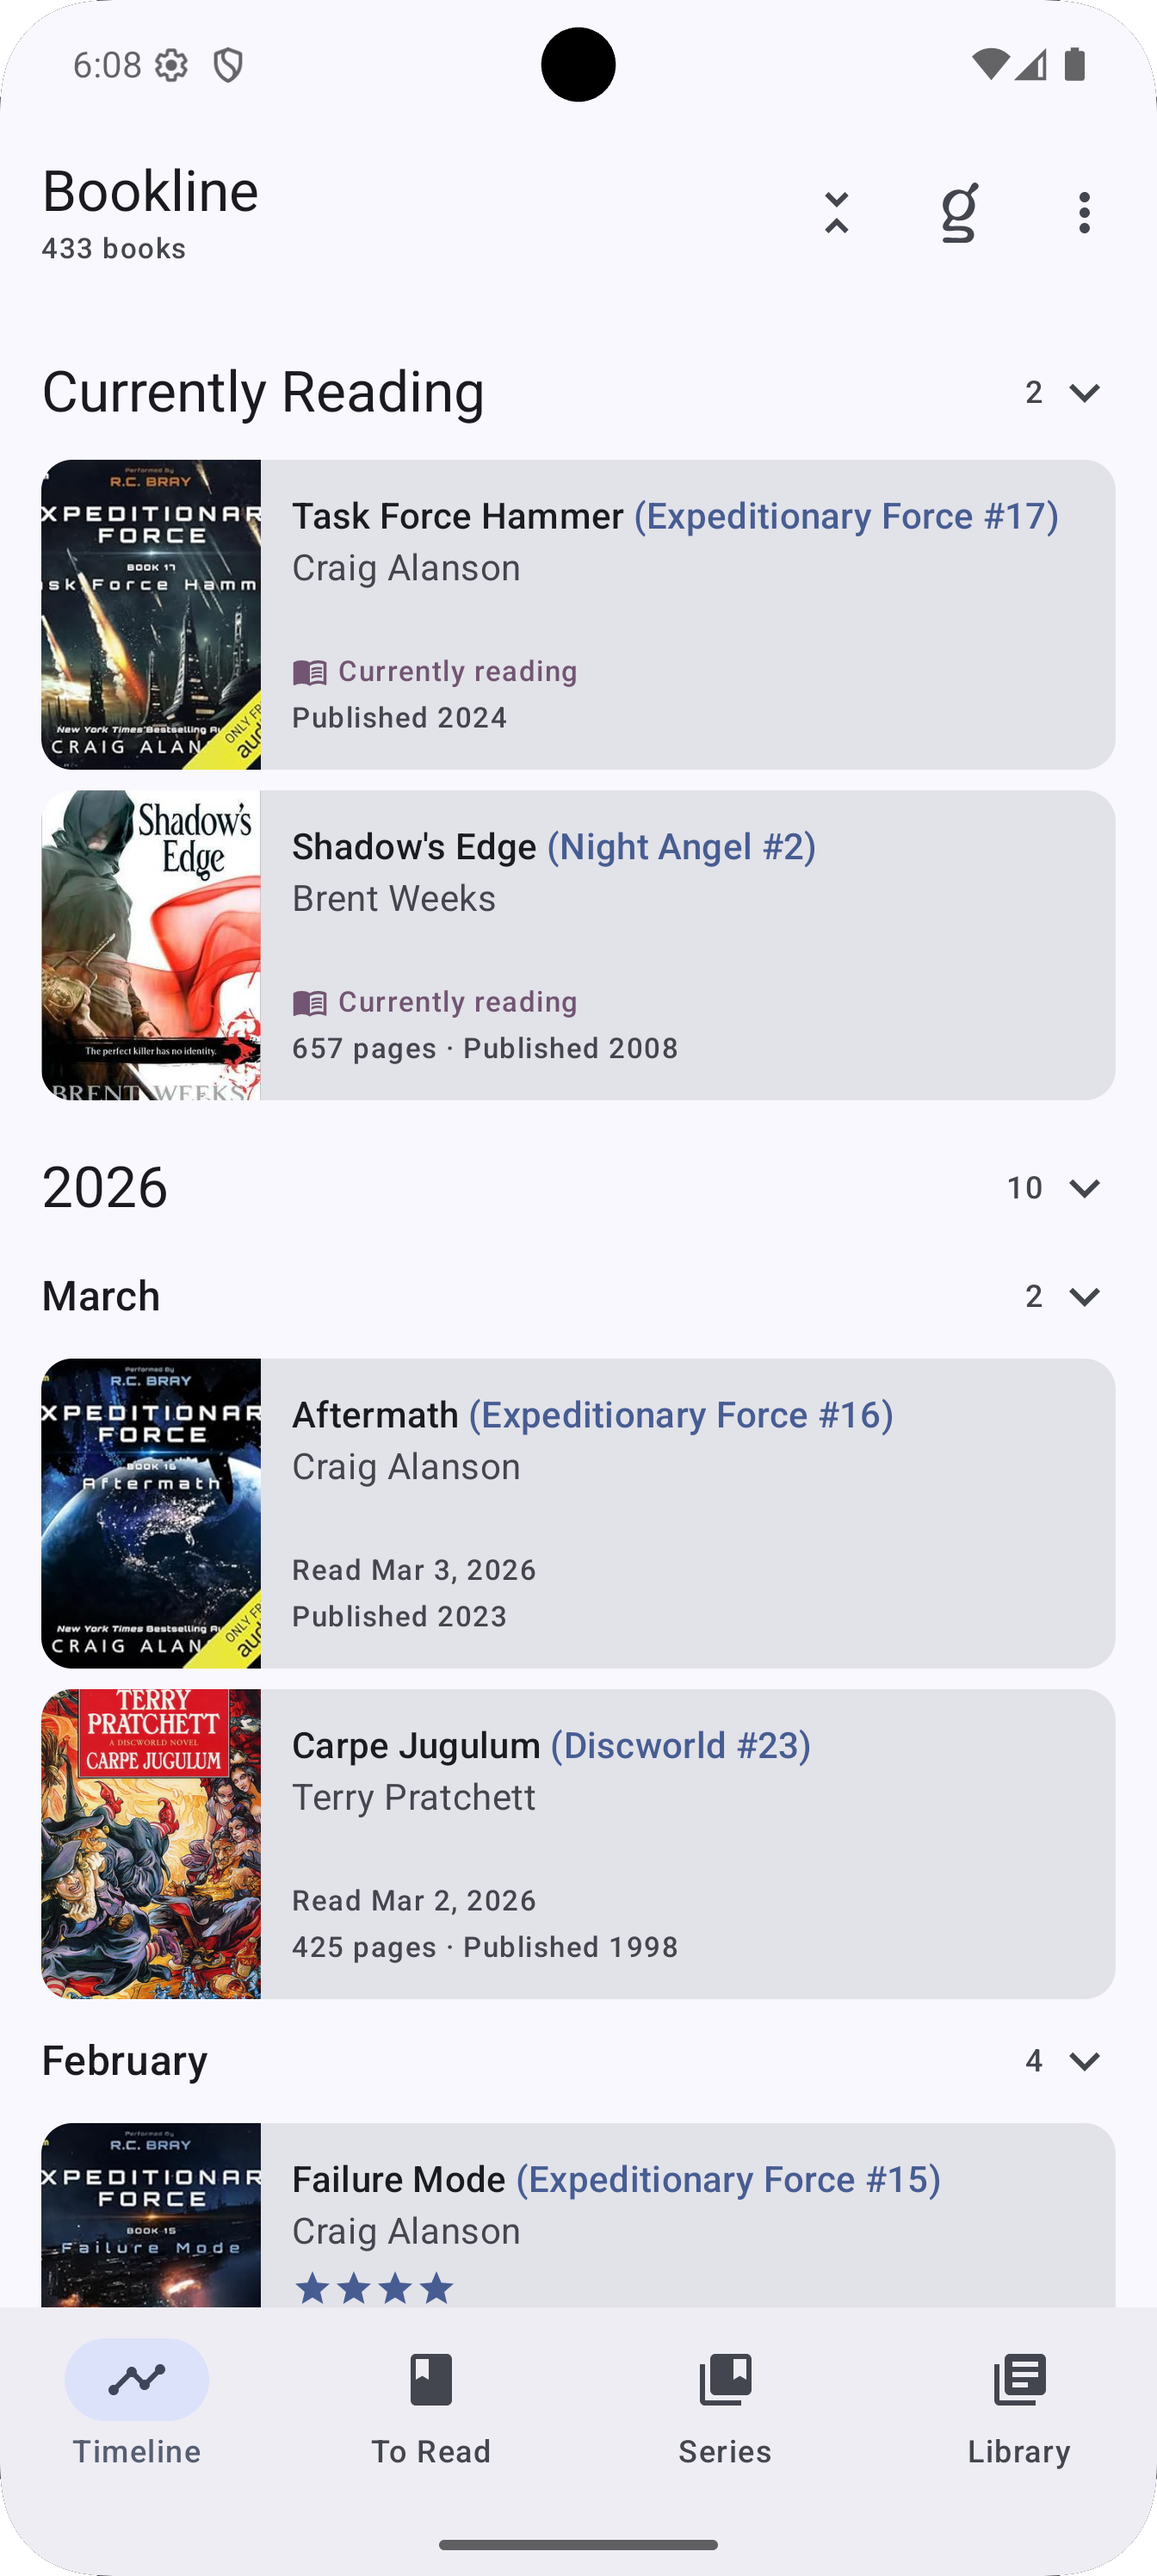
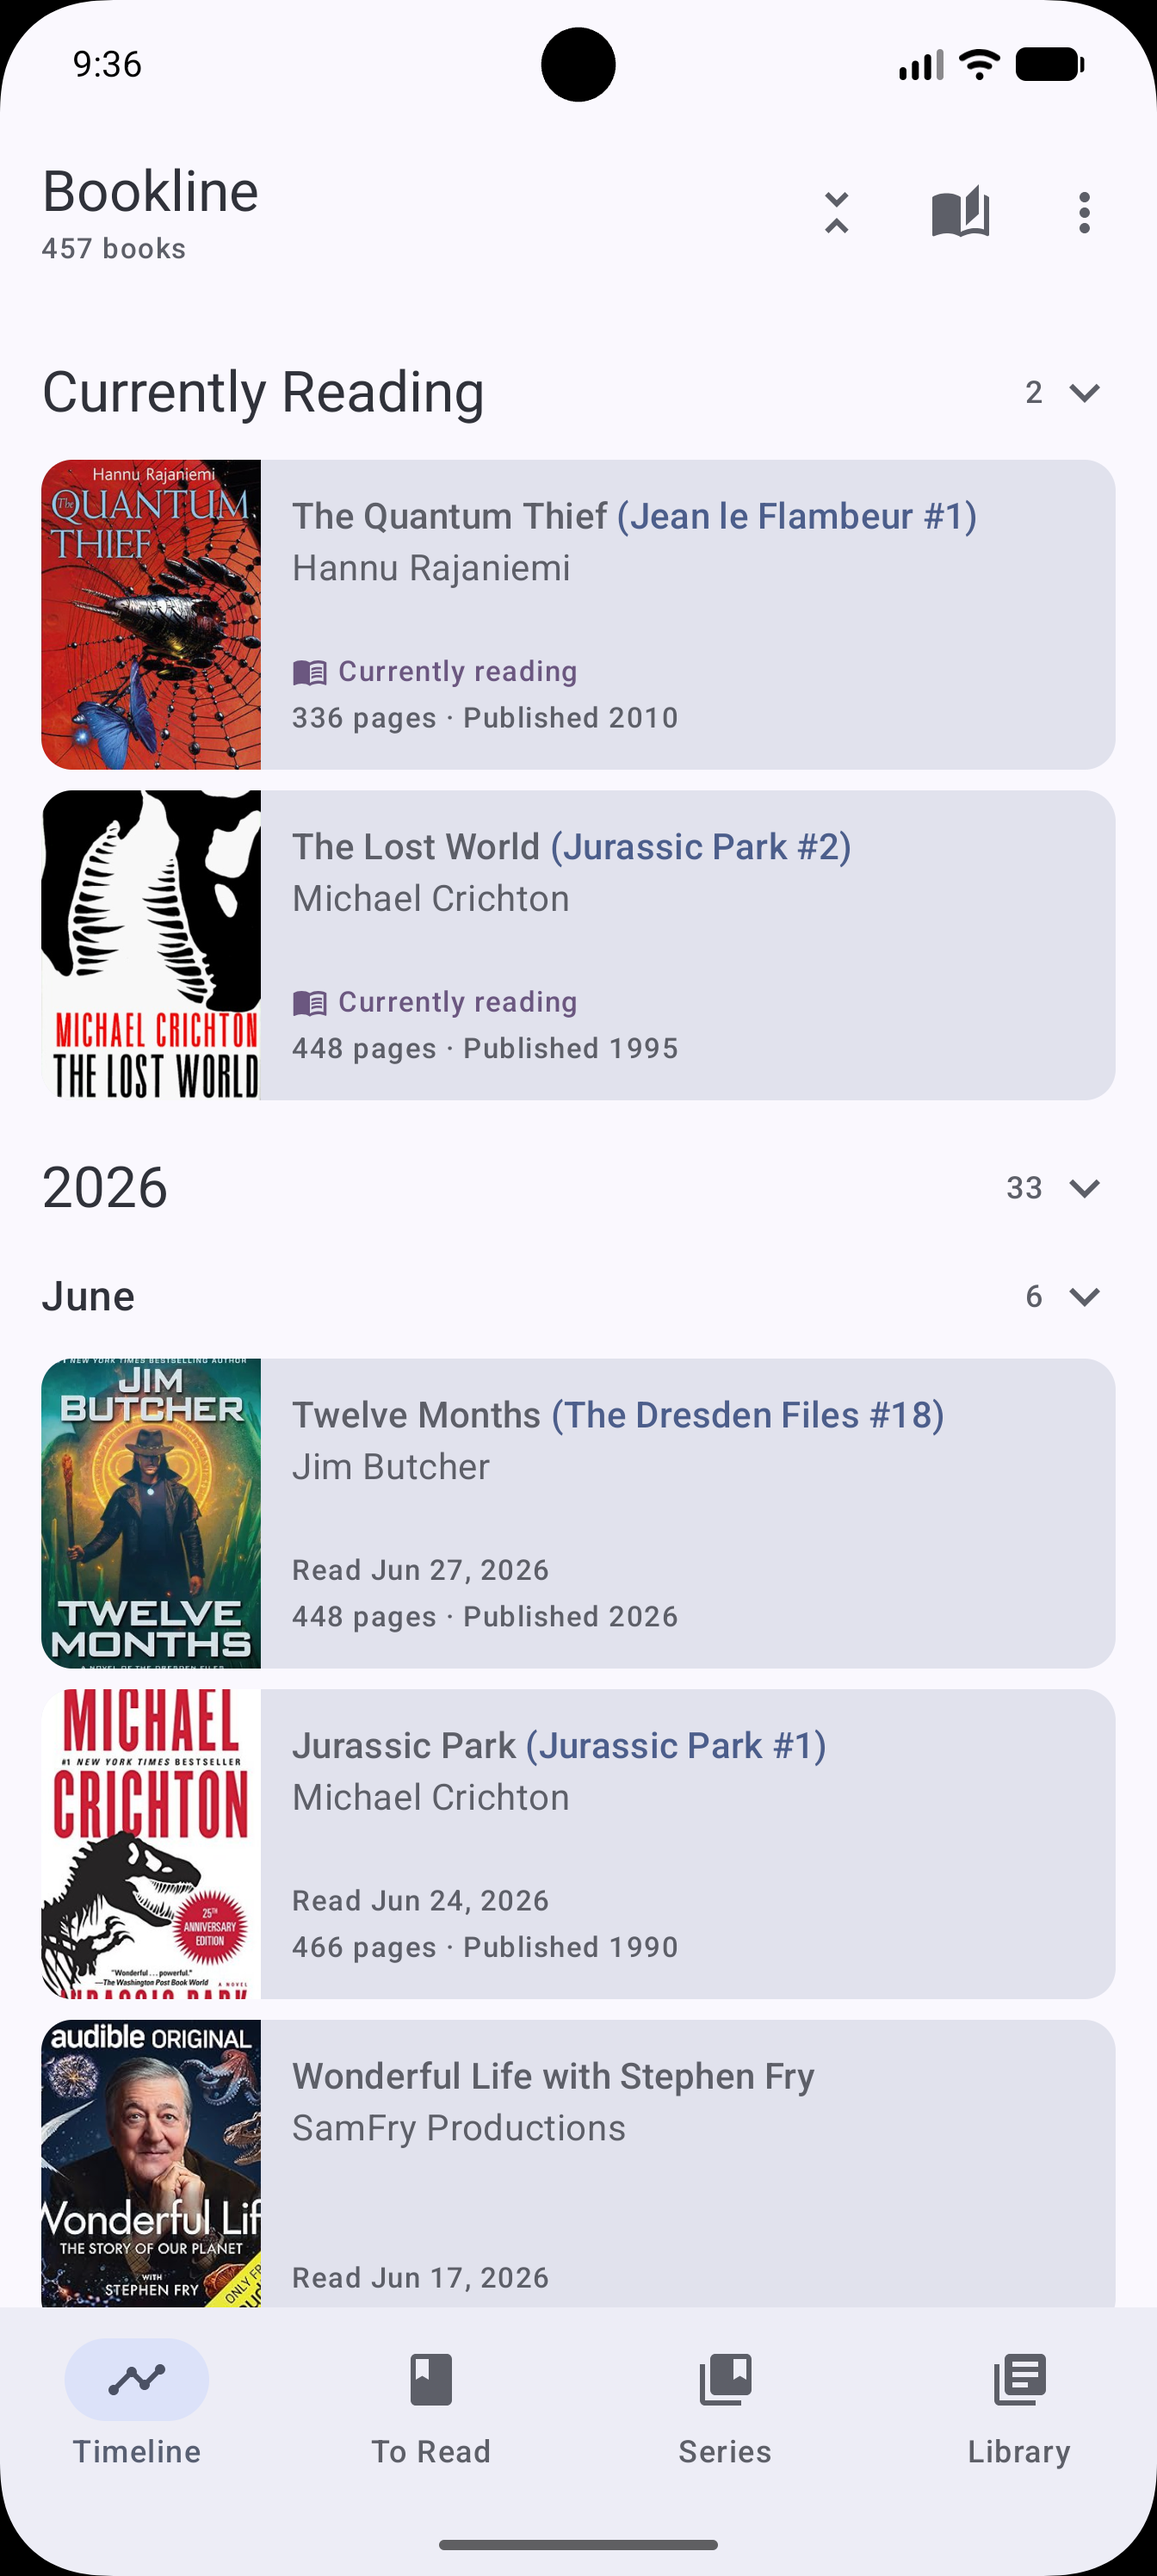
Refresh screenshots, drop Goodreads WebView shot
Store listing must not show the Goodreads logo; the WebView
screenshot was the one image that did.

diff --git a/README.md b/README.md
@@ -64,13 +64,9 @@ your reading journey.
 |---------------------------------------|-------------------------------------|---------------------------------------|
 | ![Timeline](screenshots/timeline.png) | ![To Read](screenshots/to_read.png) | ![Series](screenshots/series_all.png) |
 
-| Series Detail                                   | Library                             |
-|-------------------------------------------------|-------------------------------------|
-| ![Series Detail](screenshots/series_within.png) | ![Library](screenshots/library.png) |
-
-| Book Detail                                  | Goodreads                                            |
-|----------------------------------------------|------------------------------------------------------|
-| ![Book Detail](screenshots/book_details.png) | ![Goodreads](screenshots/goodreads_book_details.png) |
+| Series Detail                                   | Library                             | Book Detail                                  |
+|-------------------------------------------------|-------------------------------------|----------------------------------------------|
+| ![Series Detail](screenshots/series_within.png) | ![Library](screenshots/library.png) | ![Book Detail](screenshots/book_details.png) |
 
 ## 🏗 Tech Stack
 
